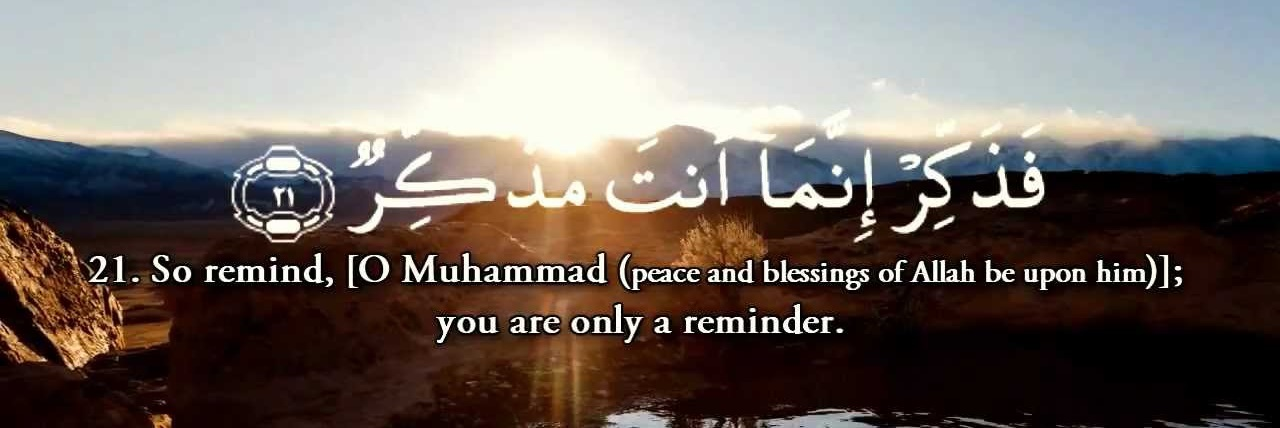
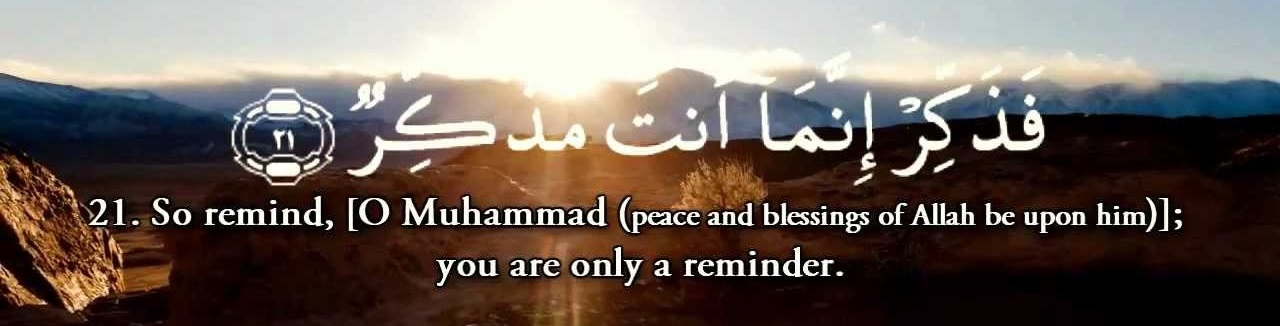
Add files via upload

diff --git a/index.html b/index.html
@@ -16,34 +16,6 @@
 	* {box-sizing:border-box}
 	.mySlides {display:none}
 
-	/* Caption text */
-	.text {
-	
-		color: #f2f2f2;
-		font-size: 15px;
-		padding: 8px 12px;
-		position: absolute;
-		bottom: 8px;
-		width: 100%;
-		text-align: center;
-		
-	}
-
-	/* The dots/bullets/indicators */
-	.dot {
-		height: 13px;
-		width: 13px;
-		margin: 0 2px;
-		background-color: #bbb;
-		border-radius: 50%;
-		display: inline-block;
-		transition: background-color 1s ease;
-	}
-
-	.active {
-		background-color: #717171;
-	}
-
 	/* Fading animation */
 	.fade {
 		-webkit-animation-name: fade;
@@ -60,11 +32,6 @@
 	@keyframes fade {
 		from {opacity: .4} 
 		to {opacity: 1}
-	}
-
-	/* On smaller screens, decrease text size */
-		@media only screen and (max-width: 300px) {
-		.text {font-size: 11px}
 	}
 
 	
@@ -91,7 +58,7 @@
 	.bg {
 	
 		/* The image used */
-		//background-image: url("BlueMosqueBG.jpg");
+		background-color: white;
 		height: 100%; 
 		padding: 0;
 		display: block;
@@ -137,42 +104,26 @@
 	<br><br>
 	
 	<!-- Header -->
-	<header class="w3-display-container w3-content w3-wide" style="max-width:1600px;min-width:500px">
-	
-		<div class="slideshow-container">
-
-			<div class="mySlides fade">
-			
-				<img src="BlueMosque.jpg" style="width:100%;min-height:153px;max-height:333px">
-				
-			</div>
-
-			<div class="mySlides fade">
-			
-				<img src="Ayah21.jpg" style="width:100%;min-height:153px;max-height:333px">
-				
-			</div>
-
-			<div class="mySlides fade">
-			
-				<img src="TrustAllah.jpg" style="width:100%;min-height:153px;max-height:333px">
-				
-			</div>
-
-		</div>
-
-		<div style="text-align:center">
+	<header class="w3-display-container w3-content w3-wide" style="max-width:1600px;min-width:500px" id="home">
 		
-			<span class="dot"></span> 
-			<span class="dot"></span> 
-			<span class="dot"></span>
-			
+		<!-- Automatic Slideshow Images -->
+		<div class="mySlides w3-display-container w3-center">
+			<img src="BlueMosque.jpg" style="width:100%;min-height:153px;max-height:303px"">
 		</div>
-	
+		
+		<div class="mySlides w3-display-container w3-center">
+			<img src="Ayah21.jpg" style="width:100%;min-height:153px;max-height:303px"">
+		</div>
+		
+		<div class="mySlides w3-display-container w3-center">
+			<img src="TrustAllah.jpg" style="width:100%;min-height:153px;max-height:303px"">
+		</div>
+		<br>
+				
 	</header>
 	
 	<!-- Page Container -->
-	<div class="w3-content w3-margin-top" style="max-width:1400px;">
+	<div class="w3-content" style="max-width:1400px;">
 
 		<!-- The Grid -->
 		<div class="w3-row-padding">
@@ -234,7 +185,7 @@
 					
 					<h6 class="w3-text-green"><i class="fa fa-calendar fa-fw w3-margin-right"></i>Apr 2014 - <span class="w3-tag w3-green w3-round">Current</span></h6>
 					
-					<h6 class="w3-text-green"><a href="https://www.google.com/maps/place/Islamic+Society+of+Greater+Lowell/@42.6213637,-71.3524624,17z/data=!4m13!1m7!3m6!1s0x89e3a365c67daa99:0x92248105fba7b723!2s131+Stedman+St,+Chelmsford,+MA+01824!3b1!8m2!3d42.6213598!4d-71.3502684!3m4!1s0x89e3a365a40c47c7:0x2b1626a7cf5b87c!8m2!3d42.6214113!4d-71.3501932"><i class="fa fa-map-marker fa-fw w3-margin-right"></i>131 Stedman St Chelmsford, MA 01824</a></h6>
+					<h6 class="w3-text-green"><a href="https://www.google.com/maps/place/Islamic+Society+of+Greater+Lowell/@42.6213637,-71.3524624,17z/data=!4m13!1m7!3m6!1s0x89e3a365c67daa99:0x92248105fba7b723!2s131+Stedman+St,+Chelmsford,+MA+01824!3b1!8m2!3d42.6213598!4d-71.3502684!3m4!1s0x89e3a365a40c47c7:0x2b1626a7cf5b87c!8m2!3d42.6214113!4d-71.3501932"><i class="fa fa-map-marker fa-fw w3-margin-right"></i>131 Stedman St Chelmsford MA 01824</a></h6>
 					
 					<h6 class="w3-text-green"><i class="fa fa-address-card fa-fw w3-margin-right"></i>(978) 970-5552 Haniff Muhammad (President)</h6>
 					
@@ -358,29 +309,24 @@
 	
 	<script>
 	
-		var slideIndex = 0;
-		showSlides();
+		// Automatic Slideshow - change image every 4 seconds
+		var myIndex = 0;
+		carousel();
 
-		function showSlides() {
+		function carousel() {
 		
 			var i;
-			var slides = document.getElementsByClassName("mySlides");
-			var dots = document.getElementsByClassName("dot");
+			var x = document.getElementsByClassName("mySlides");
 			
-			for (i = 0; i < slides.length; i++) {
-				slides[i].style.display = "none";  
+			for (i = 0; i < x.length; i++) {
+			
+				x[i].style.display = "none";  
+			
 			}
-			
-			slideIndex++;
-			if (slideIndex> slides.length) {slideIndex = 1}
-			
-			for (i = 0; i < dots.length; i++) {
-				dots[i].className = dots[i].className.replace(" active", "");
-			}
-			
-			slides[slideIndex-1].style.display = "block";  
-			dots[slideIndex-1].className += " active";
-			setTimeout(showSlides, 4000); // Change image every 4 seconds
+			myIndex++;
+			if (myIndex > x.length) {myIndex = 1}    
+			x[myIndex-1].style.display = "block";  
+			setTimeout(carousel, 5000);   
 			
 		}
 		
